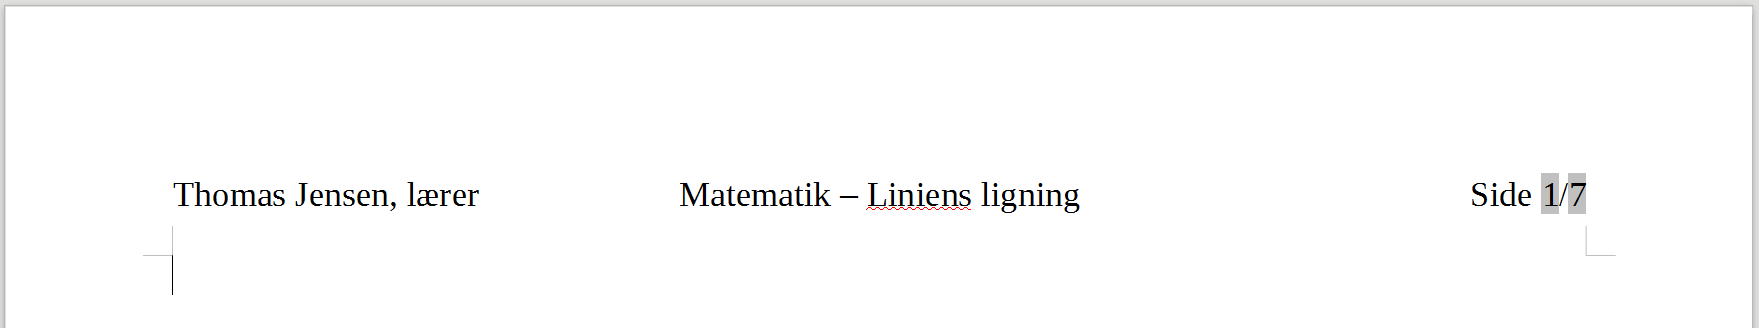
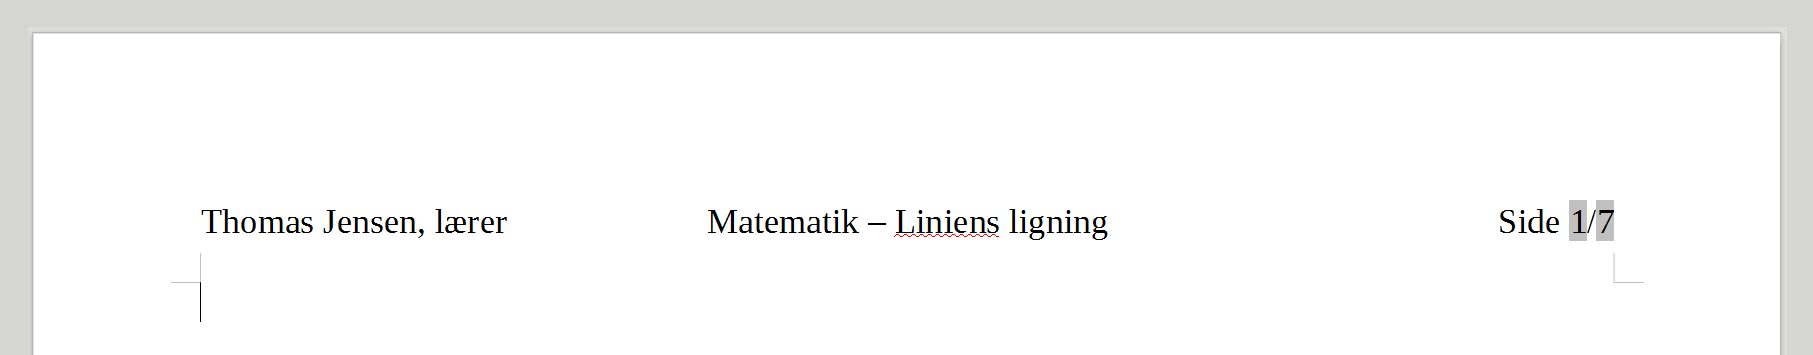
1

diff --git a/undervisning/emneopgave_matematik.html b/undervisning/emneopgave_matematik.html
@@ -100,7 +100,7 @@ code converter : http://www.freebits.co.uk/convert-html-code-to-text.html
 
 <figure id="">
 
-	<img class="p100" src="images/emneopgave_matematik_sidehovede.PNG" alt="" title="" />
+	<img class="p90" src="images/emneopgave_matematik_sidehovede.PNG" alt="" title="" />
 
 	<figcaption></figcaption>
 
@@ -114,11 +114,11 @@ code converter : http://www.freebits.co.uk/convert-html-code-to-text.html
 
 <p>Anvendes der tekst, citater, illustrationer osv. sætter der en parentes i teksten med angivelse af efternavn og sidennummer f.eks. (Jensen, 34). I kildehenvisningen er den fulde henvisning</p>
 
-<span class="inl_cmd">Jensen, Thomas: -bognavn-, -udgave/oplag-, -årstal-, -forlag-, -ISBN-</span>
+<p><span class="inl_cmd">-Forfatter-: -bognavn-, -udgave/oplag-, -årstal-, -forlag-, -ISBN-</span></p>
 
 <p>Er det en hjemmeside angives det med en forkortelse i parantesen f.eks. (vidas1). I kildehenvisningen angives den fulde henvisning, samt dato i brackets:</p>
 
-<span class="inl_cmd">vidas1: <a href="http://www.vidas.dk/undervisning/regneark.html" target="_blank">http://www.vidas.dk/undervisning/regneark.html</a> [04.10.16]</span>
+<p><span class="inl_cmd">vidas1: <a href="http://www.vidas.dk/undervisning/regneark.html" target="_blank">http://www.vidas.dk/undervisning/regneark.html</a> [04.10.16]</span></p>
 
 <span class="afsnit">Matematisk notation</span>
 
